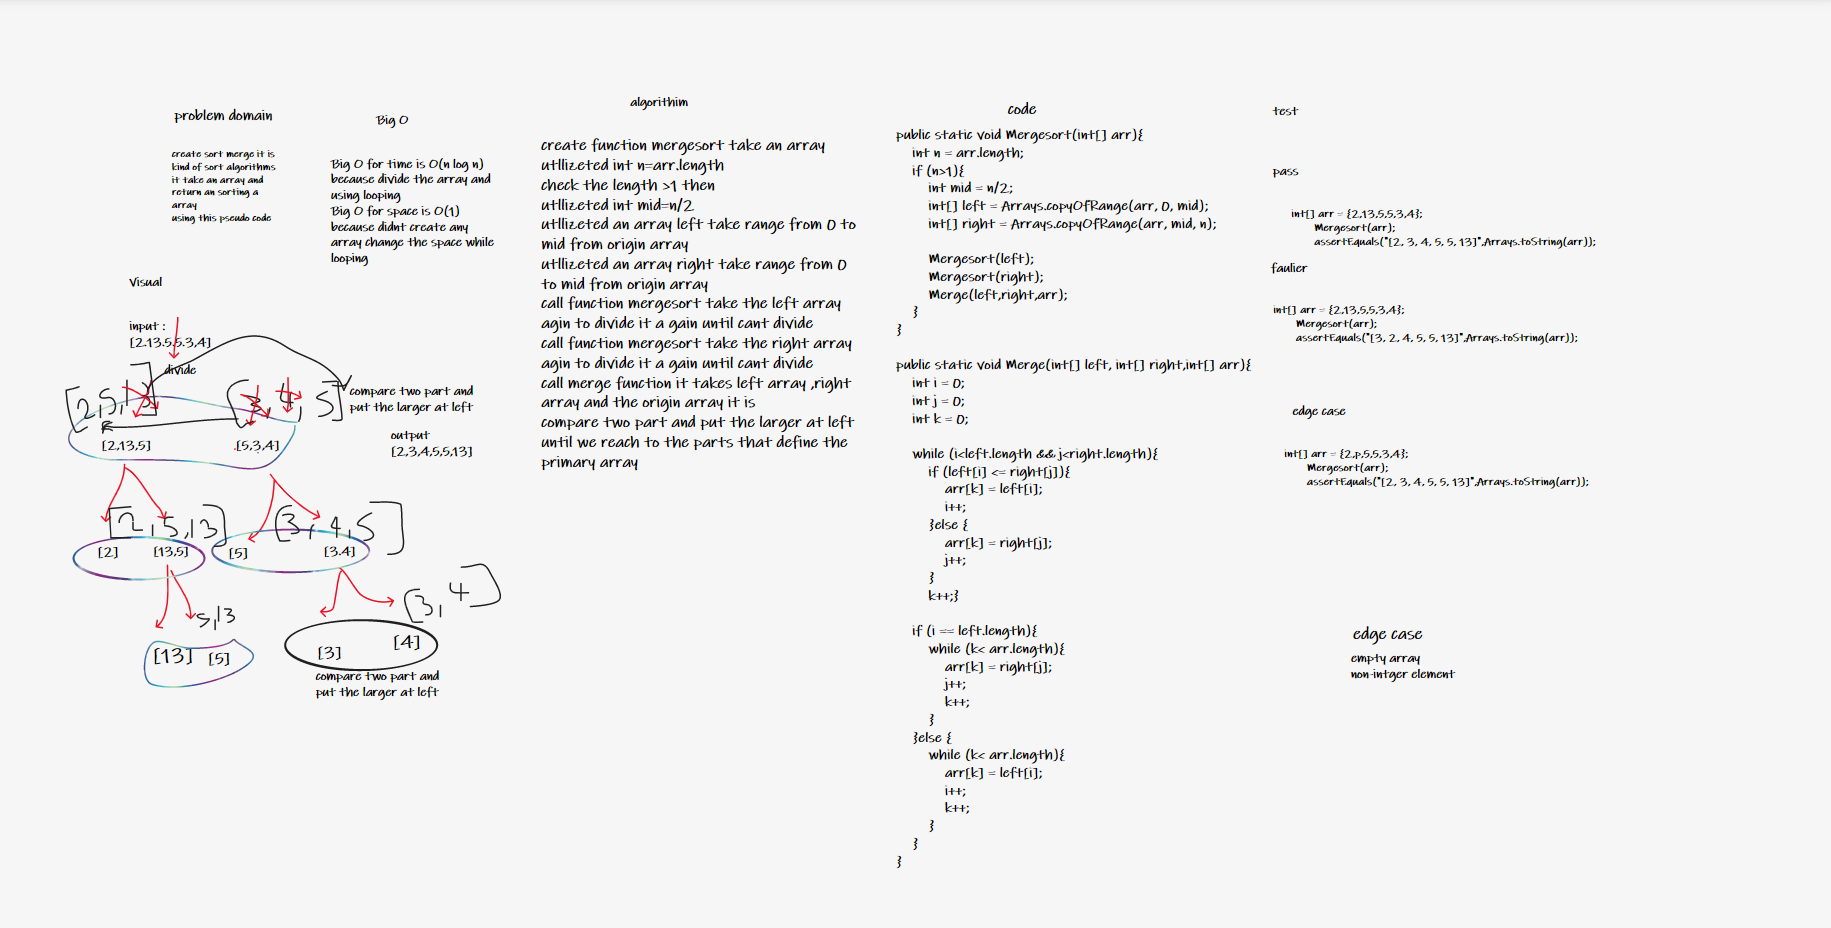
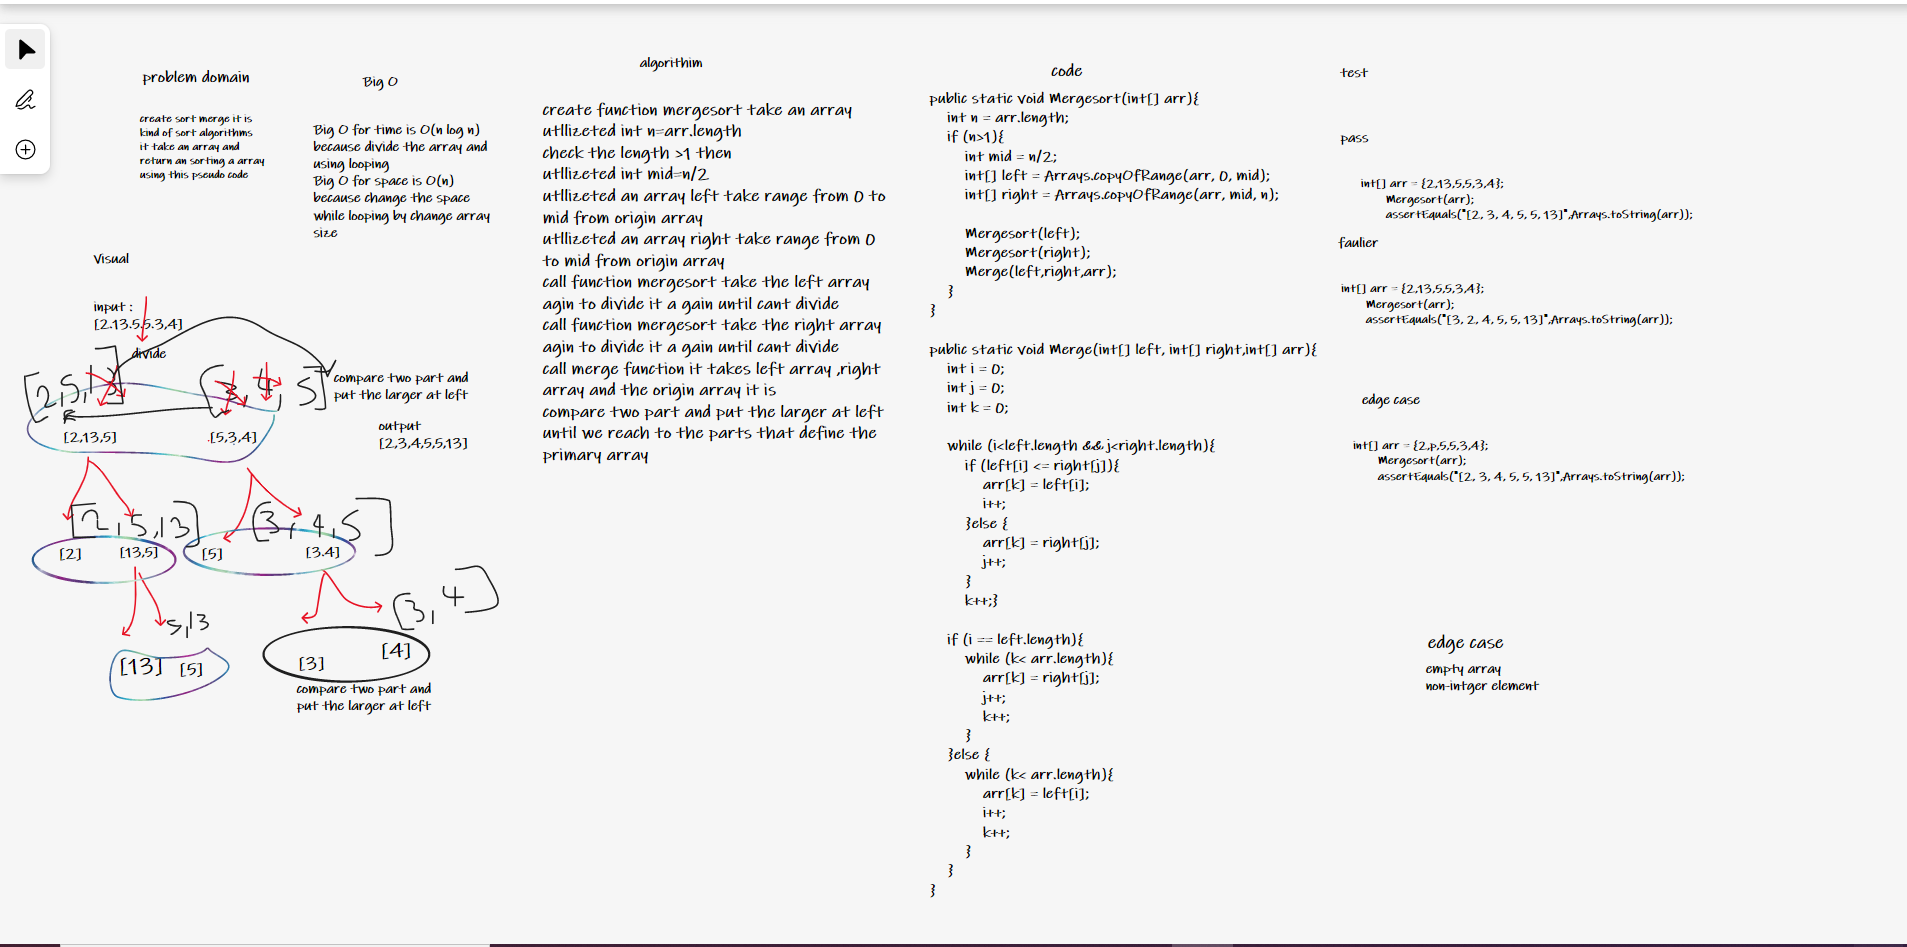
resubmit cc-27

diff --git a/challenges/challenge-28/app/src/main/java/challenge/App.java b/challenges/challenge-28/app/src/main/java/challenge/App.java
@@ -15,16 +15,23 @@ public class App {
 
         public static void QuickSort ( int[] arr, int left, int right){
             if (left < right) {
+
                 int position = Partition(arr, left, right);
-                System.out.println(position);
-                System.out.println("left"+left);
-                System.out.println("right"+right);
-                System.out.println("stop");
+//                System.out.println(position);
+//                System.out.println("left"+left);
+//                System.out.println("right"+right);
+//                System.out.println("stop");
 
                 QuickSort(arr, left, position - 1);
-//                System.out.println(right);
-//                System.out.println(position +1);
+                  System.out.println(position);
+                System.out.println("left"+left);
+                System.out.println("right"+right);
+                System.out.println("stops");
                 QuickSort(arr, position + 1, right);
+//                System.out.println(position);
+//                System.out.println("left"+left);
+//                System.out.println("right"+right);
+//                System.out.println("stopth");
             }
         }
 

diff --git a/challenges/challenge-28/BLOG.md b/challenges/challenge-28/BLOG.md
@@ -3,90 +3,7 @@ Indexes:  0   1   2   3   4   5
 
 left = 0, right =  5, pivot = arr[5] = 15
 if 0 < 5 true
-call Partition({8  ,4,  23, 42,  16, 15},0,5)
-pivot =15
-low= -1
-i=0
-8< 15 true
-low =0
-{8  ,4,  23, 42,  16, 15}
+call Partition({8 ,4,16}0,2)
+pivot =4 ---> {8,4} ,0,1
+pivot =16 ---> {8,4} ,0,0
 
-i=1
-4<15
-low =1
-{4  ,8,  23, 42,  16, 15}
-
-
-i=2
-23<15
-low =1
-{4  ,8,  23, 42,  16, 15}
-
-
-i=3
-42<15
-low =1
-{4  ,8,  23, 42,  16, 15}
-
-
-i=4
-16<15
-low =1
-{4  ,8,  23, 42,  16, 15}
-
-
-i=5
-15<15
-low =1
-{4  ,8,  23, 42,  16, 15}
-
-------------------------------
-call    QuickSort(arr, left, position - 1);
-
-left = 0, right =  1
-if 0 < 1 true
-
-
-call Partition({4  ,8,  23, 42,  16, 15},0,1)
-pivot =15
-low= -1
-i=0
-4< 15 true
-low =0
-{4  ,8,  23, 42,  16, 15}
-
-
-
----------------------------------------------
-call      QuickSort(arr, position + 1, right);
-
-left = 3, right =  5
-if 3 < 5  true
-call Partition({8  ,4,  23, 42,  16, 15},3,5)
-pivot =15
-low= 2
-i=3
-42< 15 false
-
-low=2
-i=4
-16<15  true
-{4  ,8,  16, 42,  23, 15}
-
-low=3
-i=5
-15<15  false
--------------------------------------
-QuickSort(arr, left, position - 1);
-call Partition({4  ,8,  16, 42,  23, 15},3,4)
-if 3 < 5  true
-pivot =15
-low=2
-i=3
-false
-------------------------------------
-QuickSort(arr, position + 1, right);
-5<5>
-false
--------------------------------------
-QuickSort(arr, , right);

diff --git a/challenges/challenge-27/README.md b/challenges/challenge-27/README.md
@@ -44,7 +44,10 @@ sample Array : [8,4,23,42,16,15]
 # Approach & Efficiency
 the call merge function call his self to divide the arrays
 compare two part and put the larger at left
-until we reach to the parts that define the primary array, so time complixity is O(n log n) and space complixity O(1).
+until we reach to the parts that define the primary array, so time Big O for time is O(n log n)
+because divide the array and using looping
+Big O for space is O(n)
+because change the space while looping by change array size
 
 # Solution
 TTo run the server application,
